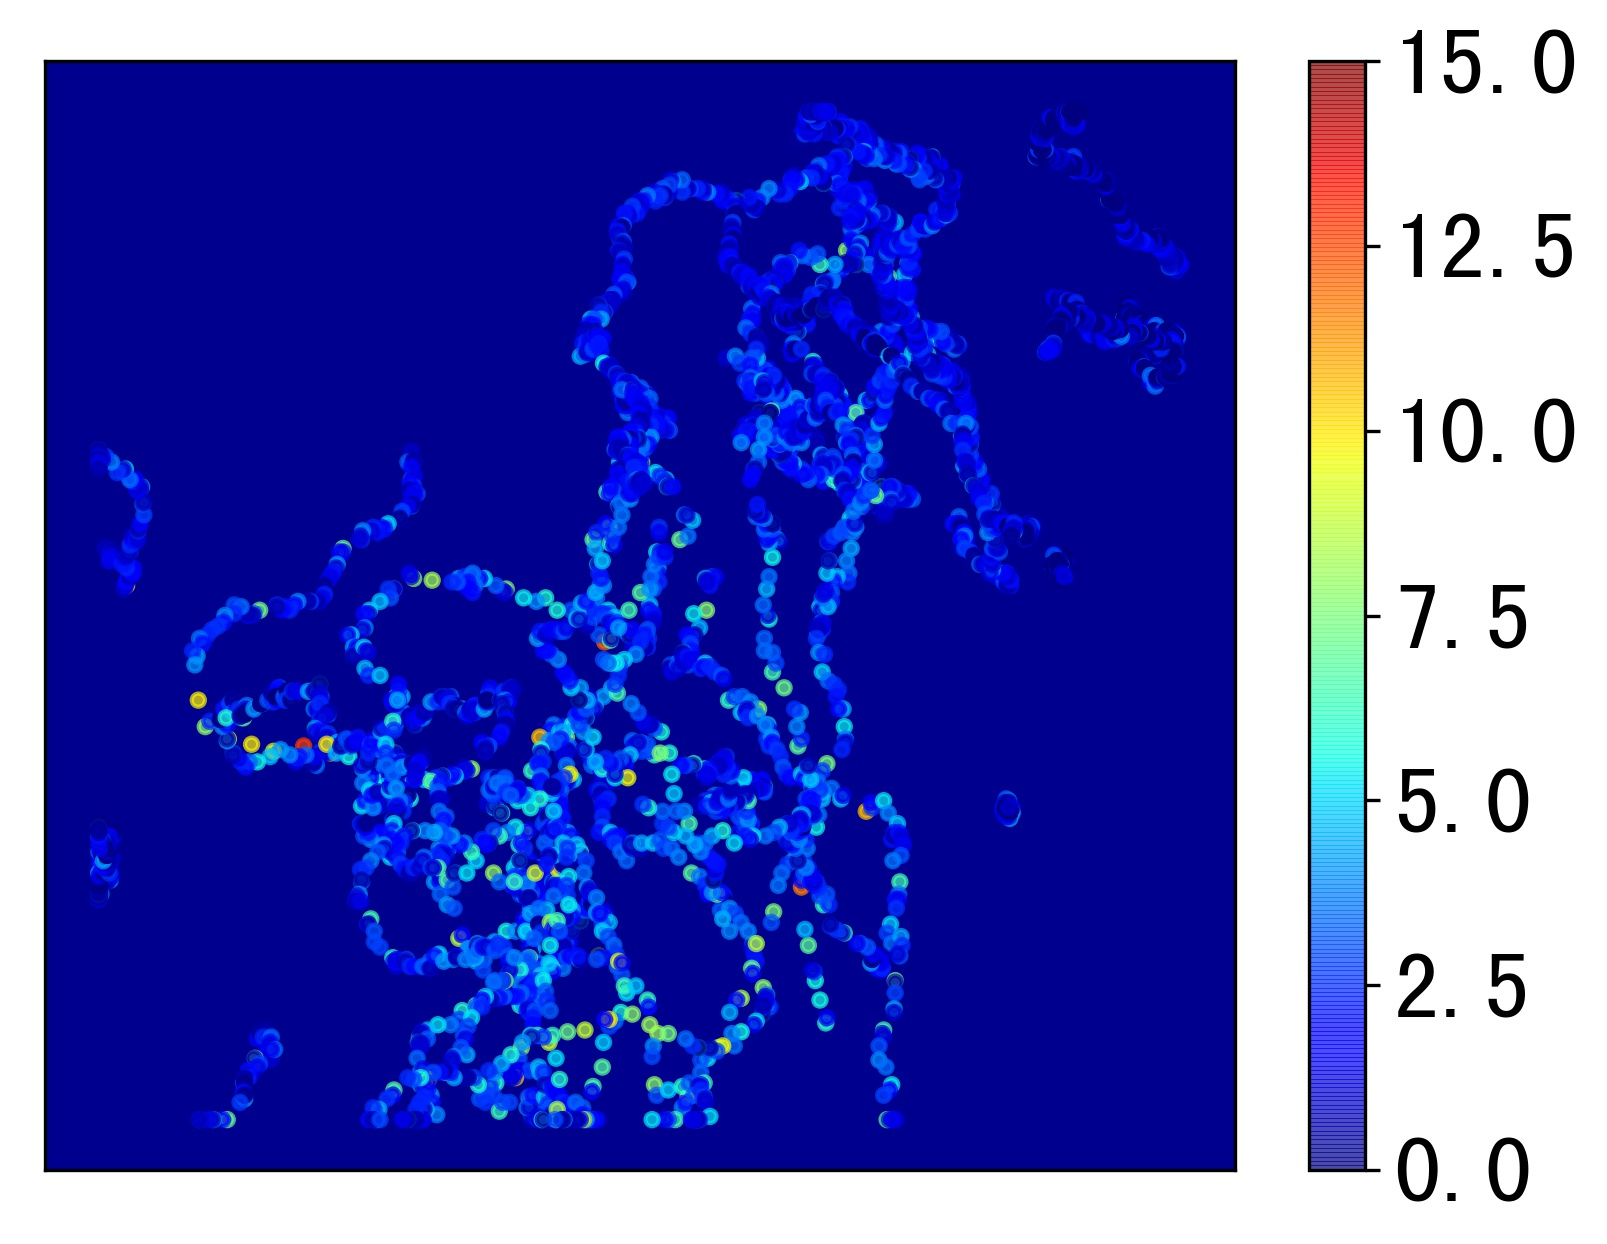
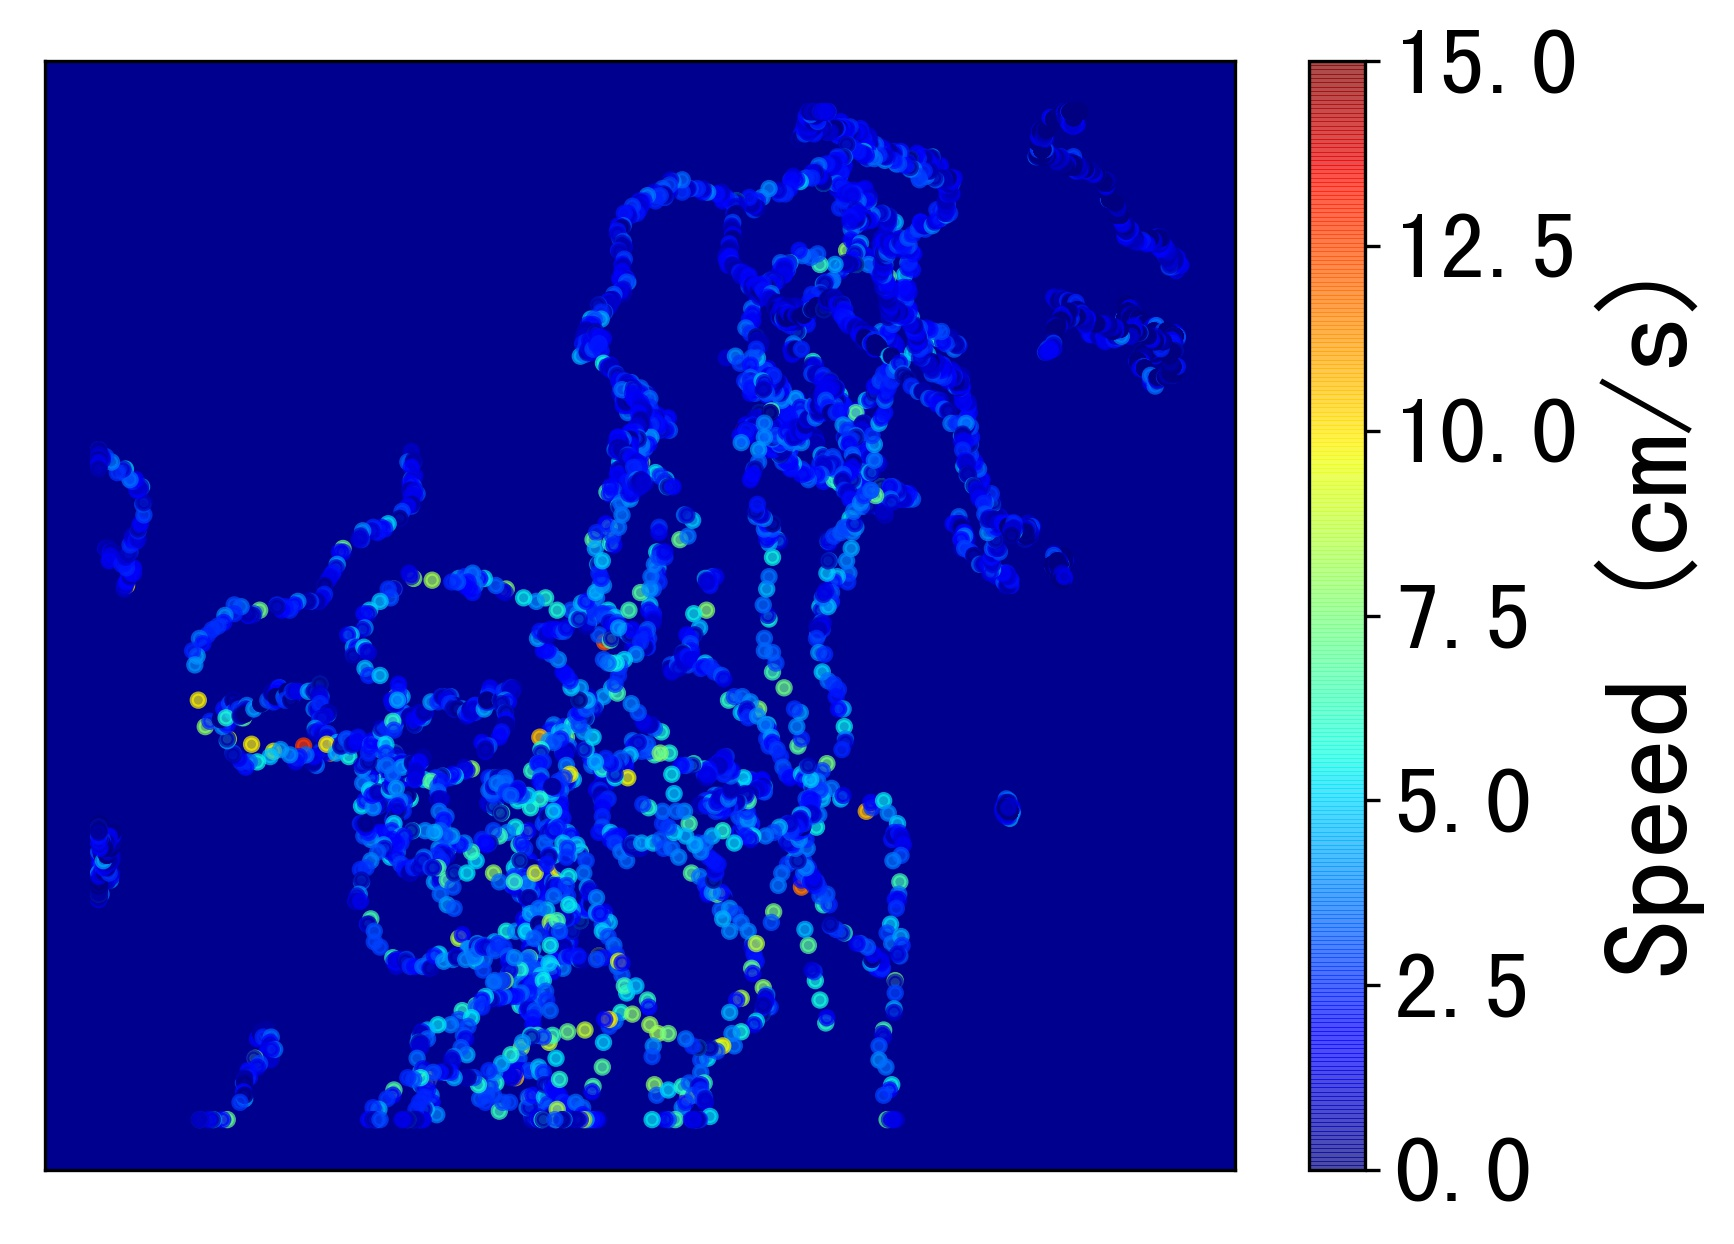
update figs

diff --git a/DatasetQualityAnalysis/visualize_speed.py b/DatasetQualityAnalysis/visualize_speed.py
@@ -91,6 +91,7 @@ def show_heatmap(v, image_height, cm_unit=100):
 
     cb = plt.colorbar(pc)
     cb.ax.tick_params(labelsize=fs)
+    cb.set_label('Speed (cm/s)', fontsize=fs+7)
 
     plt.savefig(args.save_fig_dir+'/heatmap_' +
                 args.scene+'.jpg', dpi=300, bbox_inches="tight")
@@ -102,21 +103,22 @@ def show_histogram(v, cm_unit=100):
     for item in v:
         data.append(item[4]*cm_unit)
 
-    fs = 22
+    fs = 27
     f = plt.figure(2)
     ax = f.add_subplot(111)
+
+    # ax.yaxis.set_ticks_position('right')
+    # ax.yaxis.set_label_position('right')
+
     plt.hist(
         data, bins=40, facecolor='g', alpha=0.75, edgecolor='black')
 
-    plt.xlabel('Speed (cm/s)', fontsize=fs+5)
-    plt.ylabel('Frequency', fontsize=fs+5)
+    plt.xlabel('Speed (cm/s)', fontsize=fs+7)
+    plt.ylabel('Frequency', fontsize=fs+7)
 
     plt.xticks(fontsize=fs)
     plt.yticks(fontsize=fs)
     plt.xlim([0, 0.15*cm_unit])
-
-    # ax.yaxis.set_ticks_position('right')
-    # ax.yaxis.set_label_position('right')
 
     # plt.title('Frequency of Speed', y=-0.3)
 
@@ -163,5 +165,5 @@ if __name__ == '__main__':
             show_heatmap(v, args.image_height)
             show_histogram(v)
 
-            import sys
-            sys.exit()
+            # import sys
+            # sys.exit()
